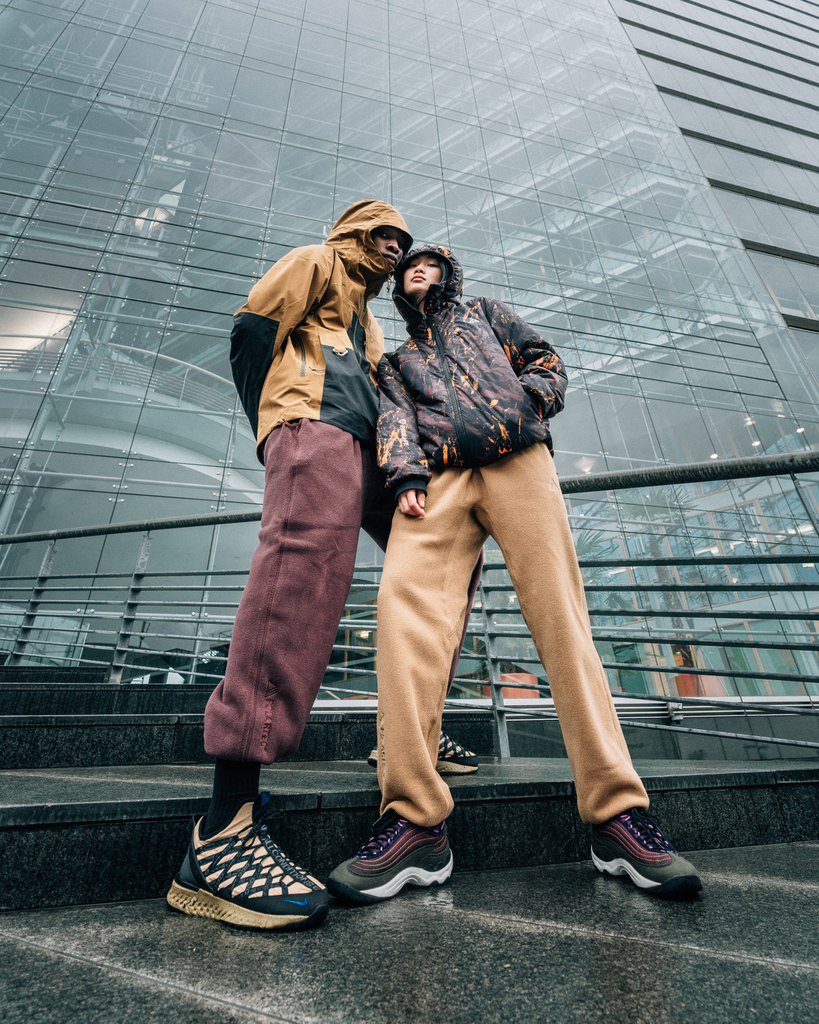
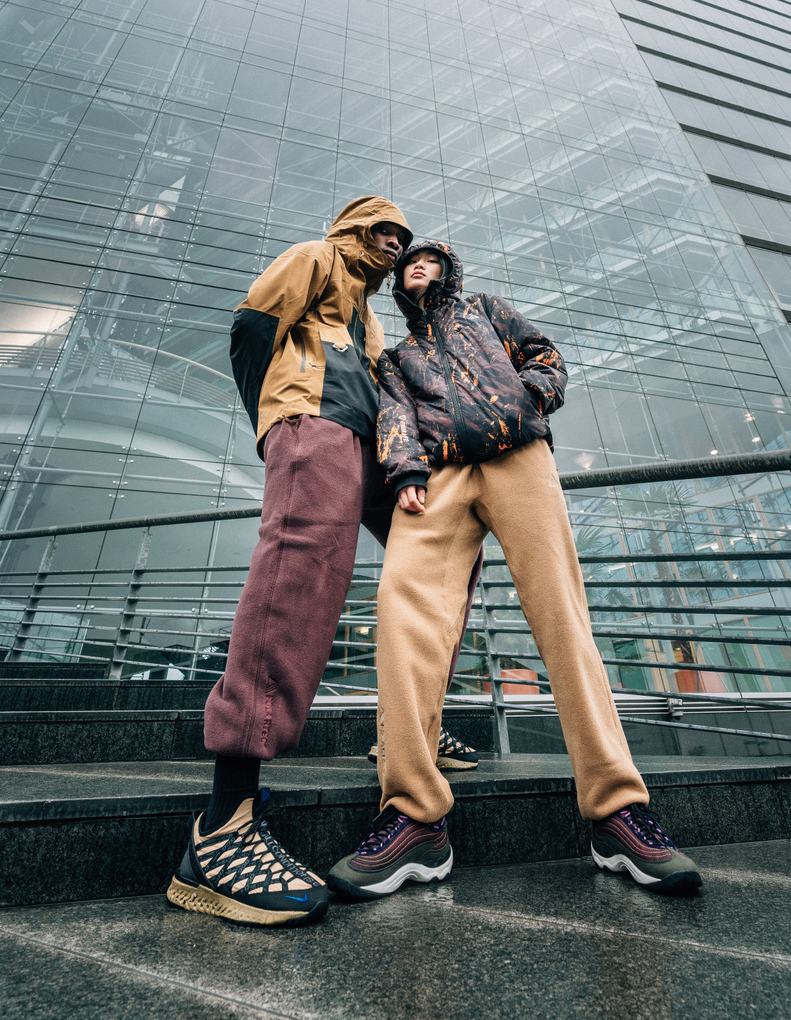
Crop Carousel images to fit designers specefications, continue work on carousel component css

diff --git a/src/components/Carousel/Carousel.js b/src/components/Carousel/Carousel.js
@@ -1,7 +1,7 @@
 import React, { useState } from "react";
 import "./Carousel.css";
-import c1 from "../../assets/images/home/carousel-1/carousel_101.webp";
-import c2 from "../../assets/images/home/carousel-1/carousel_102.webp";
+import c1 from "../../assets/images/home/carousel-1/carousel_101.jpg";
+import c2 from "../../assets/images/home/carousel-1/carousel_102.jpg";
 import c3 from "../../assets/images/home/carousel-1/carousel_103.jpg";
 import c4 from "../../assets/images/home/carousel-1/carousel_104.jpg";
 import c5 from "../../assets/images/home/carousel-1/carousel_105.jpg";
@@ -41,16 +41,15 @@ export default function Carousel(props) {
         {/* add utility classes for each carousel size */}
         {/* write a function to get image data instead of hard coding it */}
         {/* {getImages(landingData1)} */}
-        <div className='carousel-img-wrapper'>
-          <img className={props.className} src={landingData1[0]} alt='' />
-          <img className={props.className} src={landingData1[1]} alt='' />
-          <img className={props.className} src={landingData1[2]} alt='' />
-          <img className={props.className} src={landingData1[3]} alt='' />
-          <img className={props.className} src={landingData1[4]} alt='' />
-          <img className={props.className} src={landingData1[5]} alt='' />
-          <img className={props.className} src={landingData1[6]} alt='' />
-          <img className={props.className} src={landingData1[7]} alt='' />
-        </div>
+
+        <img className={props.className} src={landingData1[0]} alt='' />
+        <img className={props.className} src={landingData1[1]} alt='' />
+        <img className='test' src={landingData1[2]} alt='' />
+        <img className={props.className} src={landingData1[3]} alt='' />
+        <img className={props.className} src={landingData1[4]} alt='' />
+        <img className={props.className} src={landingData1[5]} alt='' />
+        <img className={props.className} src={landingData1[6]} alt='' />
+        <img className={props.className} src={landingData1[7]} alt='' />
       </div>
     </div>
   );

diff --git a/src/components/Carousel/Carousel.scss b/src/components/Carousel/Carousel.scss
@@ -1,8 +1,7 @@
 @import "../styleFunctions/functions";
 
 .carousel-outer-wrapper,
-.carousel-inner-wrapper,
-.carousel-img-wrapper {
+.carousel-inner-wrapper {
   @include flex(row);
   @include flexPosition(center, center);
   background-color: var(--Background);
@@ -14,10 +13,14 @@
   //   @include temporaryOutline(red);
 }
 
-.carousel-inner-wrapper,
-.carousel-img-wrapper {
+.carousel-inner-wrapper {
   //& Build infinite scroll behavior
-  @include widthHeight(100%, 100%);
+  // should scroll with both X and Y mouse scroll wheels
+
+  @include flexPosition(flex-start, flex-start);
+  @include widthHeight(100%, fit-content);
+  @include temporaryOutline(green);
+
   overflow: scroll;
   scroll-behavior: smooth;
   scrollbar-width: none; /* Remove scrollbar Firefox inner wrapper */
@@ -30,29 +33,16 @@
   //^ Hide scrollbar  (IE, Edge, Firefox)
   -ms-overflow-style: none; /* IE and Edge */
   scrollbar-width: none; /* Remove scrollbar Firefox image-wrapper  */
-}
 
-.carousel-inner-wrapper {
   //! add white shadow
   //& Build infinite scroll behavior
   //   @include temporaryOutline(blue);
 
-  .carousel-img-wrapper {
-    @include flexPosition(flex-start, center);
-    // should scroll with both X and Y mouse scroll wheels
-    @include temporaryOutline(green);
-
-    //* this img tag will be replaced by utility classes
-    img {
-      max-width: 40%;
-      max-height: 600px;
-      margin: 0 20px 0 0;
-      padding: 0;
-
-      // offset the carousel so the first image is positioned correctly
-      //   transform: translateX(1160px);
-      // @include temporaryOutline(red);
-      //   object-fit: cover;
-    } // End img
-  } // End image wrapper
+  //* this img tag will be replaced by utility classes
+  img {
+    max-width: 40%;
+    max-height: 600px;
+    margin: 0 20px 0 0;
+    @include temporaryOutline(red);
+  } // End img
 } // End inner wrapper

diff --git a/src/components/Carousel/Carousel.css b/src/components/Carousel/Carousel.css
@@ -1,6 +1,5 @@
 .carousel-outer-wrapper,
-.carousel-inner-wrapper,
-.carousel-img-wrapper {
+.carousel-inner-wrapper {
   display: flex;
   flex-direction: row;
   justify-content: center;
@@ -15,29 +14,25 @@
   margin-bottom: 131px;
 }
 
-.carousel-inner-wrapper,
-.carousel-img-wrapper {
+.carousel-inner-wrapper {
+  justify-content: flex-start;
+  align-items: flex-start;
   width: 100%;
-  height: 100%;
+  height: -moz-fit-content;
+  height: fit-content;
+  outline: 2px solid green;
   overflow: scroll;
   scroll-behavior: smooth;
   scrollbar-width: none; /* Remove scrollbar Firefox inner wrapper */
   -ms-overflow-style: none; /* IE and Edge */
   scrollbar-width: none; /* Remove scrollbar Firefox image-wrapper  */
 }
-.carousel-inner-wrapper -webkit-scrollbar,
-.carousel-img-wrapper -webkit-scrollbar {
+.carousel-inner-wrapper -webkit-scrollbar {
   scrollbar-width: none;
 }
-
-.carousel-inner-wrapper .carousel-img-wrapper {
-  justify-content: flex-start;
-  align-items: center;
-  outline: 2px solid green;
-}
-.carousel-inner-wrapper .carousel-img-wrapper img {
+.carousel-inner-wrapper img {
   max-width: 40%;
   max-height: 600px;
   margin: 0 20px 0 0;
-  padding: 0;
+  outline: 2px solid red;
 }/*# sourceMappingURL=Carousel.css.map */
